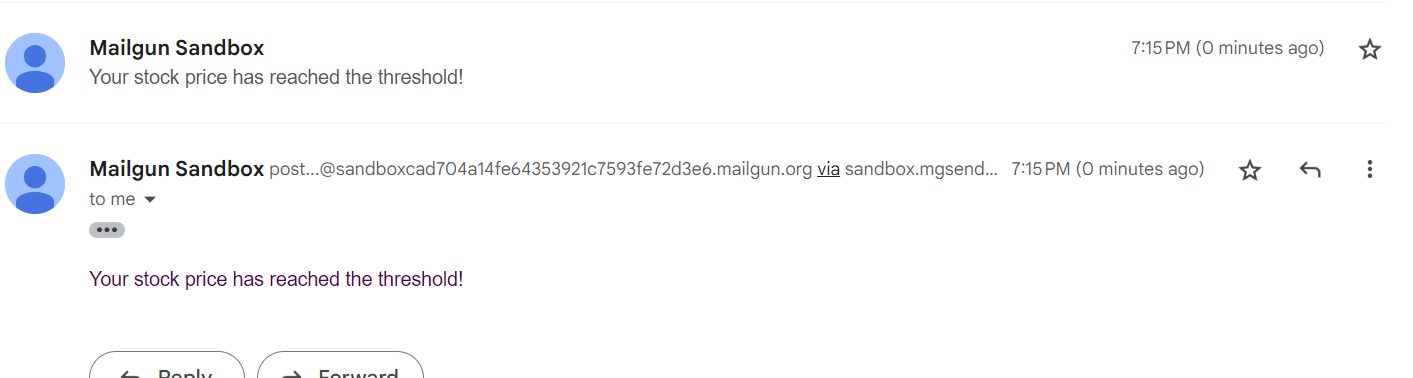
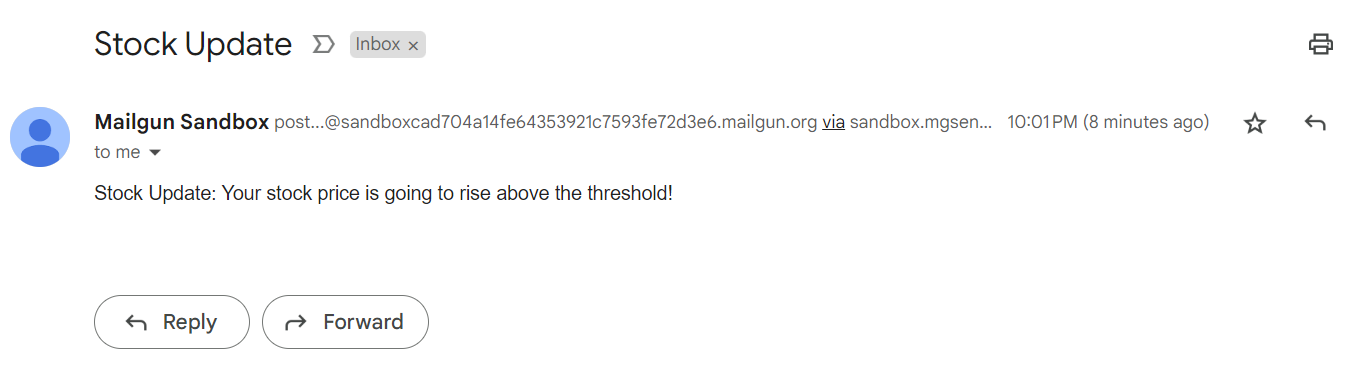
prediction and update sends

diff --git a/frontend/public/index.html b/frontend/public/index.html
@@ -24,7 +24,7 @@
       work correctly both with client-side routing and a non-root public URL.
       Learn how to configure a non-root public URL by running `npm run build`.
     -->
-    <title>React App</title>
+    <title>Stockify</title>
   </head>
   <body>
     <noscript>You need to enable JavaScript to run this app.</noscript>

diff --git a/frontend/src/App.js b/frontend/src/App.js
@@ -39,7 +39,7 @@ function App() {
 
   const handleSubmit = (event) => {
     event.preventDefault();
-    frequency_val = frequency_map[frequency];
+    var frequency_val = frequency_map[frequency];
     axios.post('http://localhost:5000/subscribe', {
       contactType,
       contactValue,

diff --git a/backend/app/routes.py b/backend/app/routes.py
@@ -19,7 +19,7 @@ import matplotlib.pyplot as plt
 dotenv.load_dotenv()
 
 
-global subscribers
+subscribers = None
 account_sid = os.getenv("TWILIO_ID")
 auth_token = os.getenv("TWILIO_TOKEN")
 client = Client(account_sid, auth_token)
@@ -48,7 +48,7 @@ def send_email(contactValue, loss):
 		data={"from": "Mailgun Sandbox <postmaster@sandboxcad704a14fe64353921c7593fe72d3e6.mailgun.org>",
 			"to": "{}".format(contactValue),
 			"subject": "Stock Update",
-			"text": "{}".format(body=body)}
+			"text": "{}".format(body)}
     )
 
 def predict_stock(hist):
@@ -130,13 +130,20 @@ def getstock():
                 send_message(subscribers['contactValue'], loss=True)
     else:
         pass
+    return future_predictions
 
 def frequency_scheduler():
-    global subscribers
-    frequency = subscribers['frequency']/1000
     while True:
-        time.sleep(frequency)
-        getstock()
+        global subscribers
+        if (subscribers):
+            frequency = subscribers['frequency_val']/1000
+            time.sleep(frequency)
+            getstock()
+
+# Start the background process as a daemon thread
+background_thread = Thread(target=frequency_scheduler)
+background_thread.daemon = True
+background_thread.start()
 
 @app.route('/')
 def index():
@@ -148,9 +155,10 @@ def subscribe():
         data = request.get_json()
         global subscribers
         subscribers = data
+        print (subscribers)
         stock = yf.Ticker(subscribers['stockTicker'])
         hist = stock.history(period='12mo')
-        future_predictions = predict_stock(hist)
+        future_predictions = getstock()
 
         fig,ax = plt.subplots(figsize=(16,8))
         stock_close_values = hist['Close'].values
@@ -165,11 +173,8 @@ def subscribe():
         plt.xticks(rotation=45)
         fig.savefig(f'generated_graph.png')
 
-        return send_file('generated_graph.png', mimetype='image/png')
+        return send_file('../generated_graph.png', mimetype='image/png')
     else:
         return jsonify({'message': 'Error'})
 
-# Start the background process as a daemon thread
-background_thread = Thread(target=frequency_scheduler)
-background_thread.daemon = True
-background_thread.start()
+

diff --git a/backend/app/models.py b/backend/app/models.py
@@ -1,0 +1,22 @@
+from app import db
+from flask_login import UserMixin
+
+class Subscribers(db.Model, UserMixin):
+    id = db.Column(db.Integer, primary_key=True)
+    email = db.Column(db.Text, unique=True)
+    username = db.Column(db.Text, unique=True)
+    password = db.Column(db.Text)
+
+    def __init__(self,email,username,password):
+        self.email = email
+        self.username = username
+        self.password = password
+    
+    @property
+    def serialize(self):
+        return {
+           'user_id':int(self.id),       
+           'email':self.email,
+           'username':self.username,
+           'password':self.password,
+        }

diff --git a/backend/app/__init__.py b/backend/app/__init__.py
@@ -1,9 +1,18 @@
 from flask import Flask
 from flask_cors import CORS
+from flask_sqlalchemy import SQLAlchemy
+
 
 app = Flask(__name__)
-app.config['SECRET_KEY'] = "stockify"
-app.config['CORS_HEADERS'] = 'Content-Type'
 cors = CORS(app, resources={r"*": {"origins": "*"}})
 
+app.config['SECRET_KEY'] = "stockify"
+app.config['CORS_HEADERS'] = 'Content-Type'
+
+# app.config['SQLALCHEMY_DATABASE_URI'] = 'sqlite:///site.sqlite3'
+app.config['SQLALCHEMY_TRACK_MODIFICATIONS'] = False
+
+# db = SQLAlchemy(app)
+
 from app import routes
+
